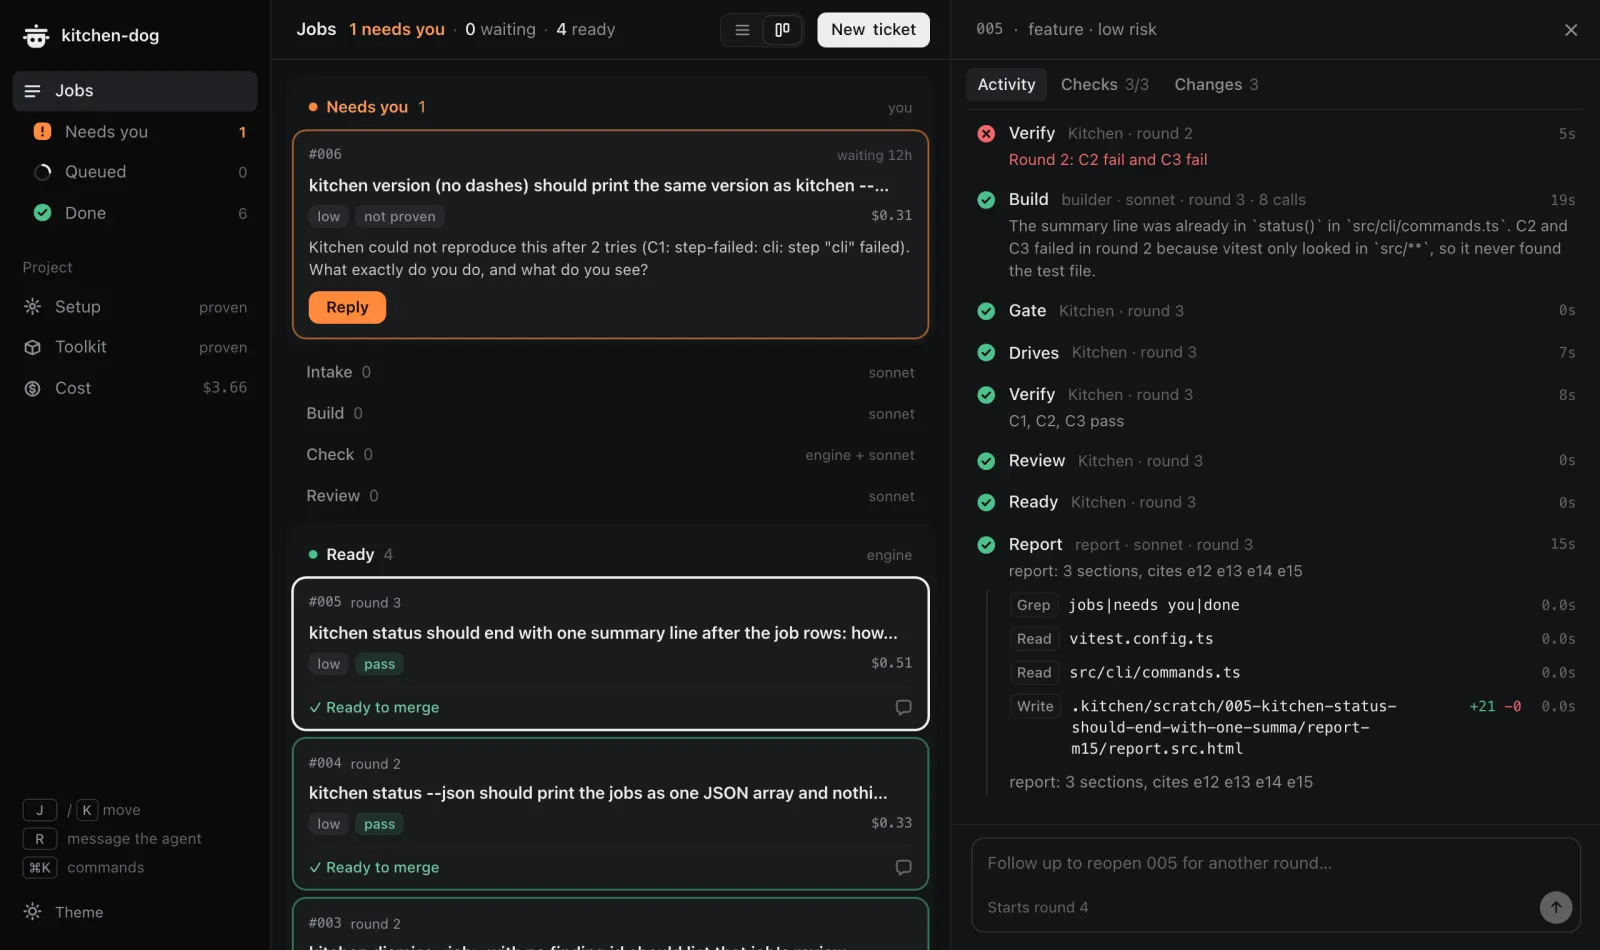
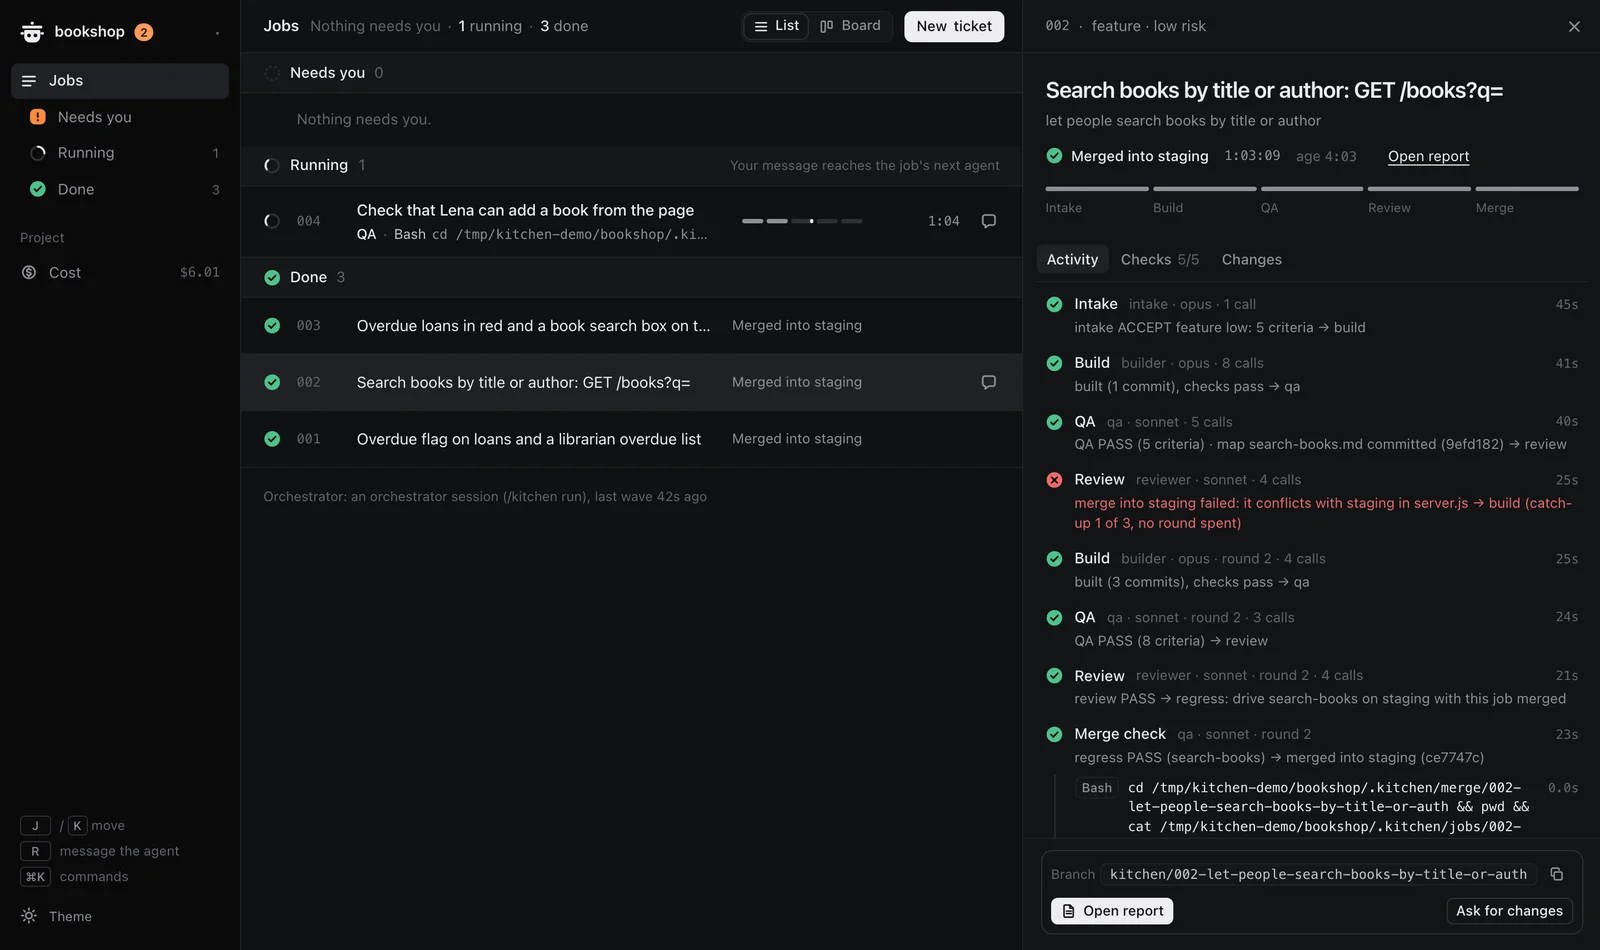
docs: refresh README visuals for today's Kitchen
Board, job panel and Report screenshots retaken from real runs (copies),
showing the repo switcher, a catch-up and the merge check. New
dashboard-switcher image after "One dashboard for every repo".
how-it-works adds the verify map and the merge check; term-init
re-rendered from a real `kitchen init` (verify skill, guard hooks,
staging). Alt texts updated to match.

diff --git a/README.md b/README.md
@@ -11,7 +11,7 @@
 
 <picture>
   <source media="(prefers-color-scheme: dark)" srcset="docs/img/dashboard-board-dark.webp">
-  <img alt="The Kitchen dashboard: jobs in lanes by stage, one waiting for an answer, others merged into staging" src="docs/img/dashboard-board-light.webp">
+  <img alt="The Kitchen dashboard's Board: one job waiting for your answer, one paused in QA, one in its merge check under Review, three merged into staging; the repo name at the top left, with a badge for another repo that needs you" src="docs/img/dashboard-board-light.webp">
 </picture>
 
 One Claude Code session runs your queue: an agent per lane writes the criteria, builds, checks the running app in a real browser and reviews. Kitchen moves every job, re-runs your checks, drives the features a change touches on the merged result, and merges what passes into `staging`. You merge `staging` onward.
@@ -34,7 +34,7 @@ It checks what it needs, finds your checks and how to start your app, installs g
 
 <picture>
   <source media="(prefers-color-scheme: dark)" srcset="docs/img/term-init-dark.webp">
-  <img alt="kitchen init: a check mark for node, git, claude and gh, then kitchen.yaml written, the skill installed and the tests passed" src="docs/img/term-init-light.webp">
+  <img alt="kitchen init: a check mark for node, git, python3, claude and gh, then kitchen.yaml written, the skill and the verify skill installed, the guard hooks added, the staging branch created and the tests passed" src="docs/img/term-init-light.webp">
 </picture>
 
 ### 2. Give it a ticket
@@ -63,8 +63,13 @@ The session plans waves and starts one agent per lane. Tickets run side by side,
 **One dashboard for every repo.** `kitchen dashboard` serves http://127.0.0.1:7357/ with a switcher for every repo you ran Kitchen in. Run it in another repo and it joins the open page (`already open: …/#<repo>`) instead of taking a new port; a badge counts jobs in other repos that need you.
 
 <picture>
+  <source media="(prefers-color-scheme: dark)" srcset="docs/img/dashboard-switcher-dark.webp">
+  <img alt="The repo switcher open at the top left of the dashboard: three repos, each with its path, how many jobs need you, how many are running and how many jobs it has, and a shortcut from ⌘1 to ⌘3" src="docs/img/dashboard-switcher-light.webp">
+</picture>
+
+<picture>
   <source media="(prefers-color-scheme: dark)" srcset="docs/img/dashboard-panel-dark.webp">
-  <img alt="The dashboard with one job open: each stage, who ran it, how long it took and what its agent did" src="docs/img/dashboard-panel-light.webp">
+  <img alt="The dashboard with one job open: each stage, who ran it, how long it took and what its agent did, from intake through a catch-up after a conflict in staging to the merge check that merged it" src="docs/img/dashboard-panel-light.webp">
 </picture>
 
 ### 4. Read the Report, merge staging
@@ -77,14 +82,14 @@ A job whose QA and review pass is merged into `staging`, after Kitchen runs your
 
 <picture>
   <source media="(prefers-color-scheme: dark)" srcset="docs/img/report-dark.webp">
-  <img alt="A job's Report: verdict PASS, what changed with links to the evidence, and what a person must check" src="docs/img/report-light.webp">
+  <img alt="A job's Report: what you must check, each criterion with QA's result and its evidence, and the features driven before the merge with their screenshots" src="docs/img/report-light.webp">
 </picture>
 
 ## How it works
 
 <picture>
   <source media="(prefers-color-scheme: dark)" srcset="docs/img/how-it-works-dark.svg">
-  <img alt="You tell Claude Code what you want and it files a ticket. The orchestrator session plans waves and moves each job only through kitchen job verbs. One fresh agent per lane: intake, build, QA, review. QA starts your app and checks it with Playwright. Passing work merges into staging; you merge staging onward." src="docs/img/how-it-works-light.svg">
+  <img alt="You tell Claude Code what you want and it files a ticket. The orchestrator session plans waves and moves each job only through kitchen job verbs. One fresh agent per lane: intake, build, QA, review. QA starts your app and checks it with Playwright, following and keeping the verify map: one file per feature. After review, a merge check drives the features the merge touches on the merged result; green lands in staging with its Report, and you merge staging onward." src="docs/img/how-it-works-light.svg">
 </picture>
 
 QA follows and keeps a **verify skill** in your repo (`.claude/skills/verify-<app>/`): one file per feature saying how to check it and which files are behind it. Before a job merges, a **merge check** drives every feature whose files the merge changes, on the merged result, so one job breaking another's feature goes back to Build instead of landing. More: [the verify map](docs/guide.md#the-verify-map).
